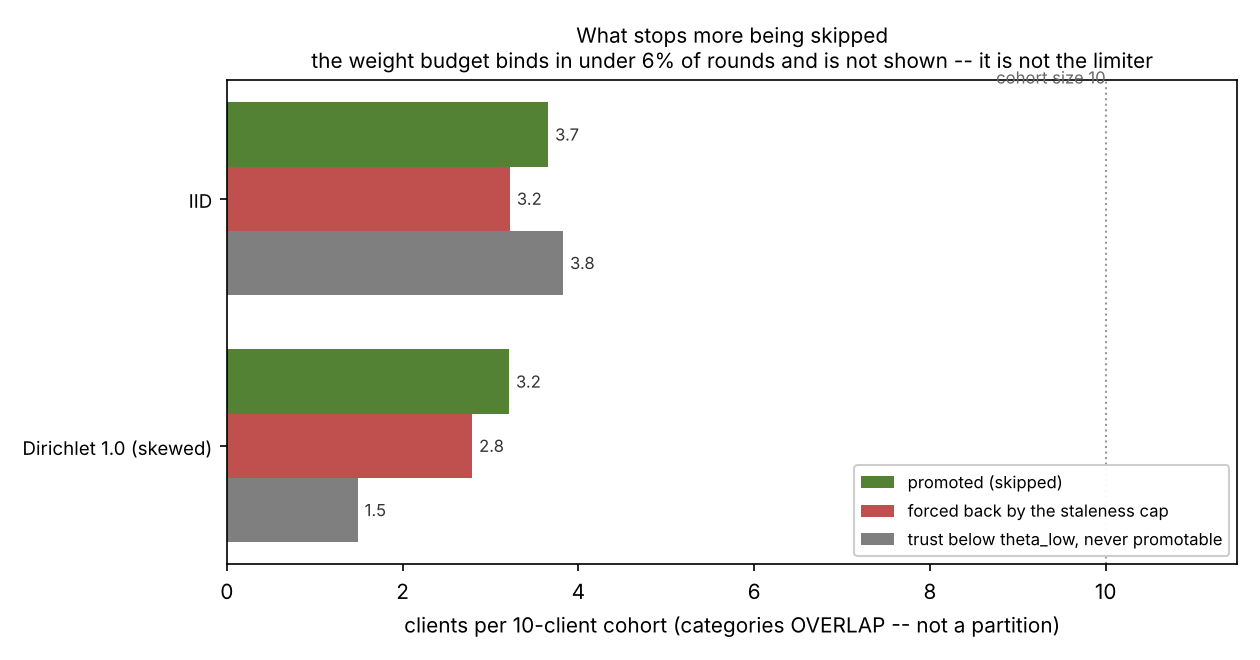
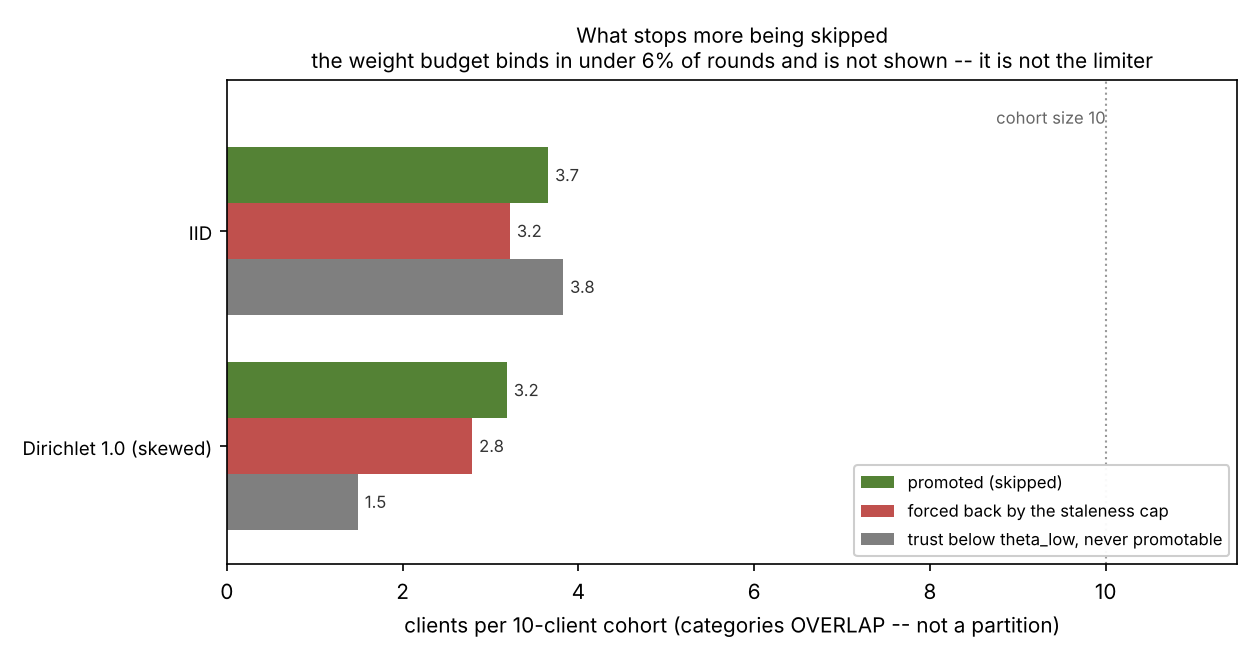
Code review: the guard failed open four ways; fig 3 averaged a different sample
THE GUARD WAS NOT TRUSTWORTHY. It exists to catch test functions that
return None and silently fail an all([...]) aggregator. Review found it
missed four classes of exactly that bug:

 - `return None`, `return False`, `return []` all PASSED: the check looked
   only for a bare `return`. So "fixing" a flagged test by writing
   `return None` would have satisfied the guard and kept the bug -- the
   precise failure it exists to prevent.
 - `async def test_*` and test methods on a class were skipped entirely,
   because only module-level FunctionDef was scanned. It failed open on the
   files most likely to drift.
 - `try: return True / finally: ...` with NO except clause was flagged as
   falling off the end, because handlers were required unconditionally.
 - a `match` statement whose every case returns was flagged too.

All four fixed and pinned in the self-test, which now also asserts the
detector does NOT fire on the shapes that previously produced false
positives. Scope gap closed as well: exactly three suites in src/tests use
all([...]) in main(), and test_tavs_flower_client.py was missing from the
list. It is clean, and now covered.

FIGURE 3 AVERAGED A DIFFERENT SAMPLE FROM FIGURES 1 AND 2. CONFIRMED.
constraint_breakdown globbed every tavs_skip_seed* in the family, picking
up 10 seeds for Dirichlet against 5 for IID, while figs 1-2 use the 5 seeds
recorded in pilot_results.json. Three panels presented as one story,
[…]

diff --git a/experiments/analysis/oracle/plot_cost.py b/experiments/analysis/oracle/plot_cost.py
@@ -28,6 +28,7 @@ import argparse
 import glob
 import json
 import math
+import re
 import statistics
 import sys
 from pathlib import Path
@@ -57,25 +58,41 @@ def pilot_rows(base: Path, fam: str):
     for p in sorted(glob.glob(str(base / fam / "**" / "pilot_results.json"),
                               recursive=True)):
         for r in json.loads(Path(p).read_text()).get("runs", []):
-            out.setdefault(r["arm"], {})[r["seed"]] = r
+            prev = out.setdefault(r["arm"], {})
+            if r["seed"] in prev:
+                # A second pilot file in the family (e.g. a re-run that
+                # landed at a different matched skip rate) would otherwise
+                # silently replace seeds and the figure would mix configs.
+                raise RuntimeError(
+                    f"duplicate {r['arm']} seed {r['seed']} in {fam}: more "
+                    f"than one pilot_results.json. Point --base at one.")
+            prev[r["seed"]] = r
     return out
 
 
 def arm_stats(rows, arm, ref="full_verify"):
-    """(mean accuracy, mean verifications, paired delta vs ref, ci, n)."""
+    """(mean accuracy, mean verifications, paired delta vs ref, ci, n).
+
+    The mean and the error bar are computed over the SAME seeds -- those
+    shared with the reference arm. An earlier version averaged accuracy over
+    all of the arm's seeds while pairing the error bar over the shared ones,
+    so with unequal seed sets the point and its interval would have
+    described different samples.
+    """
     if arm not in rows:
         return None
-    acc = [x["late_accuracy"] for x in rows[arm].values()]
-    ver = [x["total_verified"] for x in rows[arm].values()]
+    use = sorted(set(rows[arm]) & set(rows[ref])) if ref in rows else sorted(rows[arm])
+    if not use:
+        use = sorted(rows[arm])
+    acc = [rows[arm][s]["late_accuracy"] for s in use]
+    ver = [rows[arm][s]["total_verified"] for s in use]
     d = hw = float("nan")
-    n = len(acc)
-    if ref in rows:
-        shared = sorted(set(rows[arm]) & set(rows[ref]))
-        if len(shared) >= 2:
-            diffs = [rows[arm][s]["late_accuracy"] - rows[ref][s]["late_accuracy"]
-                     for s in shared]
-            d, _t, n = paired_t(diffs)
-            hw = ci_halfwidth(diffs)
+    n = len(use)
+    if ref in rows and len(use) >= 2 and set(use) <= set(rows[ref]):
+        diffs = [rows[arm][s]["late_accuracy"] - rows[ref][s]["late_accuracy"]
+                 for s in use]
+        d, _t, n = paired_t(diffs)
+        hw = ci_halfwidth(diffs)
     return statistics.mean(acc), statistics.mean(ver), d, hw, n
 
 
@@ -136,8 +153,10 @@ def fig_headroom(plt, base, fams, out, p_noisy=0.4, budget=400):
     fig, ax = plt.subplots(figsize=(7.6, 4.2))
     y = range(len(labels))
     ax.barh(list(y), got, color="#548235", label="skipped by TAVS")
-    ax.barh(list(y), [oracle - g for g in got], left=got, color="#d9d9d9",
-            label="left on the table")
+    # max(0, ...) so an arm that ever skipped MORE than the oracle bound
+    # cannot draw a negative-width bar with a negative "unclaimed" label.
+    ax.barh(list(y), [max(0.0, oracle - g) for g in got], left=got,
+            color="#d9d9d9", label="left on the table")
     ax.axvline(oracle, color="#c0504d", lw=1.6, ls="--")
     # Above the top bar, not beside it: at the bottom it sat under the
     # legend and both were unreadable.
@@ -148,8 +167,10 @@ def fig_headroom(plt, base, fams, out, p_noisy=0.4, budget=400):
     for i, g in enumerate(got):
         ax.annotate(f"{g:.0f}  ({g / budget:.0%})", (g / 2, i), ha="center",
                     va="center", fontsize=9, color="white")
-        ax.annotate(f"+{oracle - g:.0f} unclaimed", (g + (oracle - g) / 2, i),
-                    ha="center", va="center", fontsize=8, color="#444444")
+        gap = max(0.0, oracle - g)
+        if gap > 1:
+            ax.annotate(f"+{gap:.0f} unclaimed", (g + gap / 2, i),
+                        ha="center", va="center", fontsize=8, color="#444444")
     ax.set_yticks(list(y))
     ax.set_yticklabels(labels, fontsize=9)
     ax.set_xlabel(f"verifications skipped, of {budget} opportunities")
@@ -164,18 +185,28 @@ def fig_headroom(plt, base, fams, out, p_noisy=0.4, budget=400):
     return f
 
 
-def constraint_breakdown(base: Path, fam: str):
+def constraint_breakdown(base: Path, fam: str, seeds=None):
     """Per 10-client cohort: promoted, and who was held back by what.
 
     Trust is REPLAYED from the logged pretrain_loss_var through the same EMA
-    the scheduler used -- verified elsewhere to reproduce the recorded final
-    trust to 0.0 error on 1500 client values. The logged trust_evolution
+    the scheduler used -- verified to reproduce the recorded final
+    trust to 0.0 error on every replayed client value. The logged trust_evolution
     cannot be used: its per-client lists have ragged lengths with no recorded
     start round.
+
+    `seeds` restricts the replay to the same seed set the other two figures
+    use. Without it this globbed every tavs_skip_seed* in the family, which
+    picked up 10 seeds for Dirichlet against 5 for IID while figs 1-2 used
+    5 for both -- three panels presented as one story, averaged over
+    different samples.
     """
     acc = {"promoted": [], "below_theta_low": [], "forced_stale": []}
     for p in sorted(glob.glob(str(base / fam / "**" / "tavs_skip_seed*"
                                   / "pipeline_results.json"), recursive=True)):
+        if seeds is not None:
+            m = re.search(r"tavs_skip_seed(\d+)", p)
+            if not m or int(m.group(1)) not in seeds:
+                continue
         d = json.loads(Path(p).read_text())
         tc = d["config"]["tavs_config"]
         a, t0 = tc["alpha_trust"], tc["initial_trust"]
@@ -220,7 +251,10 @@ def constraint_breakdown(base: Path, fam: str):
 def fig_what_blocks(plt, base, fams, out):
     rows, labels = [], []
     for fam, title in fams:
-        b = constraint_breakdown(base, fam)
+        # Same seeds as figs 1-2, so all three panels describe one sample.
+        pr = pilot_rows(base, fam)
+        seeds = set(pr.get("tavs_skip", {})) or None
+        b = constraint_breakdown(base, fam, seeds=seeds)
         if b:
             rows.append(b)
             labels.append(title)
@@ -243,7 +277,8 @@ def fig_what_blocks(plt, base, fams, out):
             ax.annotate(f"{v:.1f}", (v + 0.08, off), va="center", fontsize=8,
                         color="#333333")
     ax.axvline(10, color="#999999", lw=1.0, ls=":")
-    ax.annotate("cohort size 10", (10, len(rows) - 0.55), fontsize=8,
+    ax.set_ylim(-0.55, len(rows) - 0.30)
+    ax.annotate("cohort size 10", (10, len(rows) - 0.52), fontsize=8,
                 color="#666666", ha="right", va="bottom")
     ax.set_yticks(list(range(len(labels))))
     ax.set_yticklabels(labels, fontsize=9)

diff --git a/src/tests/test_suite_return_contract.py b/src/tests/test_suite_return_contract.py
@@ -20,10 +20,33 @@ import sys
 from pathlib import Path
 
 ROOT = Path(__file__).resolve().parents[2]
-SUITES = ["test_end_to_end_pipeline.py", "test_tavs_esp_strategy.py"]
+# Every suite whose main() aggregates with all([...]). Found by grepping
+# "all([" across src/tests: these three. test_tavs_flower_client.py was
+# missing from the first version and is vulnerable to the identical bug.
+SUITES = ["test_end_to_end_pipeline.py", "test_tavs_esp_strategy.py",
+          "test_tavs_flower_client.py"]
 
 
 _NESTED = (ast.FunctionDef, ast.AsyncFunctionDef, ast.ClassDef, ast.Lambda)
+_DEFS = (ast.FunctionDef, ast.AsyncFunctionDef)
+
+
+def _falsy_return(r):
+    """Does this return statement hand back something falsy?
+
+    `return` alone is the obvious case, but `return None`, `return False`
+    and `return []` are all equally fatal to an all([...]) aggregator and
+    were missed by the first version -- which checked only for a bare
+    return. Someone "fixing" a flagged test by writing `return None` would
+    have satisfied the guard and kept the bug.
+    """
+    if r.value is None:
+        return True
+    if isinstance(r.value, ast.Constant):
+        return not r.value.value
+    if isinstance(r.value, (ast.List, ast.Tuple, ast.Dict, ast.Set)):
+        return not getattr(r.value, "elts", getattr(r.value, "keys", [1]))
+    return False
 
 
 def _own_returns(node):
@@ -65,12 +88,24 @@ def _always_returns(body):
         return bool(last.orelse) and _always_returns(last.body) \
             and _always_returns(last.orelse)
     if isinstance(last, ast.Try):
+        # A return in `finally` swallows every other path.
         if last.finalbody and _always_returns(last.finalbody):
             return True
         body_ok = _always_returns(last.body) if not last.orelse \
             else _always_returns(last.orelse)
-        return body_ok and bool(last.handlers) and all(
-            _always_returns(h.body) for h in last.handlers)
+        # No `except` clauses at all means nothing is caught, so the body (or
+        # else) alone decides. Requiring handlers here flagged the correct
+        # `try: return True / finally: cleanup()` as falling off the end.
+        if not last.handlers:
+            return body_ok
+        return body_ok and all(_always_returns(h.body) for h in last.handlers)
+    if isinstance(last, getattr(ast, "Match", ())) and last.cases:
+        # Every case must return AND one case must be an irrefutable
+        # wildcard, or an unmatched subject falls through.
+        has_wildcard = any(
+            isinstance(c.pattern, ast.MatchAs) and c.pattern.pattern is None
+            and c.guard is None for c in last.cases)
+        return has_wildcard and all(_always_returns(c.body) for c in last.cases)
     return False
 
 
@@ -79,11 +114,14 @@ def offenders(path: Path):
     falls off the end."""
     tree = ast.parse(path.read_text())
     bad = []
-    for node in tree.body:
-        if not (isinstance(node, ast.FunctionDef) and node.name.startswith("test_")):
+    # Walk the whole tree, not just module level: an `async def test_*` or a
+    # test method on a class was silently skipped before, so the guard
+    # failed open on exactly the files most likely to drift.
+    for node in ast.walk(tree):
+        if not (isinstance(node, _DEFS) and node.name.startswith("test_")):
             continue
-        if any(r.value is None for r in _own_returns(node)):
-            bad.append((node.name, "has a bare `return`"))
+        if any(_falsy_return(r) for r in _own_returns(node)):
+            bad.append((node.name, "can return a falsy value"))
         elif not _always_returns(node.body):
             bad.append((node.name, "falls off the end without returning"))
     return bad
@@ -125,18 +163,35 @@ def test_detector_catches_a_missing_return():
         "def test_with_try_all_paths_return():\n"
         "    with open('/dev/null') as f:\n"
         "        try:\n            return True\n"
-        "        except Exception:\n            return True\n"
+        "        except Exception:\n            return True\n\n"
+        # Falsy explicit returns: all fatal to all([...]), all missed by the
+        # first version, which only looked for a bare `return`.
+        "def test_returns_none_explicitly():\n    return None\n\n"
+        "def test_returns_false():\n    return False\n\n"
+        "def test_returns_empty_list():\n    return []\n\n"
+        # try/finally with NO except: the body decides; requiring handlers
+        # flagged this correct shape.
+        "def test_try_finally_no_except():\n"
+        "    try:\n        return True\n    finally:\n        pass\n\n"
+        # async and methods were skipped entirely -- the guard failed open.
+        "async def test_async_falls_off():\n    print('x')\n\n"
+        "class TestGroup:\n"
+        "    def test_method_falls_off(self):\n        print('x')\n"
     )
     with tempfile.NamedTemporaryFile("w", suffix=".py", delete=False) as f:
         f.write(src)
         tmp = Path(f.name)
     try:
         names = {n for n, _ in offenders(tmp)}
-        assert names == {"test_falls_off", "test_bare_return"}, (
-            f"expected exactly the two real offenders, got {names}")
+        expected = {"test_falls_off", "test_bare_return",
+                    "test_returns_none_explicitly", "test_returns_false",
+                    "test_returns_empty_list", "test_async_falls_off",
+                    "test_method_falls_off"}
+        assert names == expected, (
+            f"missing {expected - names}; unexpected {names - expected}")
     finally:
         tmp.unlink()
-    print("✓ the detector flags a missing and a bare return, and nothing else")
+    print("✓ detector flags bare/None/False/[] returns, async and method tests,\n  and does NOT flag nested helpers, with/try, or try/finally")
     return True
 
 
